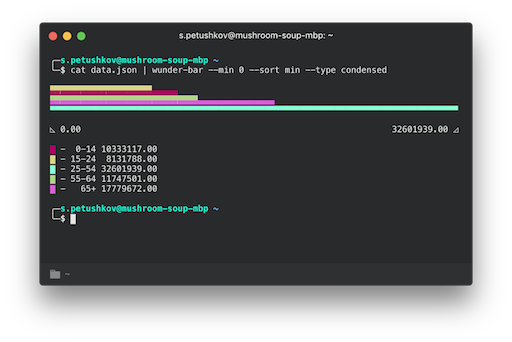
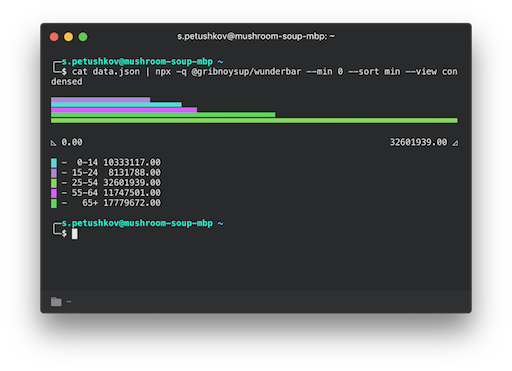
Update README to use npx instead of i -g; Update images

Changed region(s): [[0.0625, 0.0585, 0.9375, 0.848]]

diff --git a/README.md b/README.md
@@ -10,24 +10,19 @@ building blocks to print chart yourself.
 ## Use in terminal
 
 ```
-# Install it first
-npm i -g @gribnoysup/wunderbar
-```
-
-```
-echo "[1, 2, 3, 4, 5]" | @gribnoysup/wunderbar --min 0
+echo "[1, 2, 3, 4, 5]" | npx @gribnoysup/wunderbar --min 0
 ```
 
 ![wunder-bar-simple](./wunder-bar-simple.png)
 
 ```
-cat data.json | @gribnoysup/wunderbar --min 0
+cat data.json | npx @gribnoysup/wunderbar --min 0
 ```
 
 ![wunder-bar-cli](./wunder-bar-cli.png)
 
 ```
-cat data.json | @gribnoysup/wunderbar --min 0 --sort min --view condensed
+cat data.json | npx @gribnoysup/wunderbar --min 0 --sort min --view condensed
 ```
 
 ![wunder-bar-cli-condensed](./wunder-bar-cli-condensed.png)
@@ -90,7 +85,7 @@ All options are also supported in the cli version:
 
 ```
 echo "[10, 30, 50, 70, 90, 110]" | \
-  @gribnoysup/wunderbar --view normal --min 0 --max 100  --length 42 --sort min --randomColorOptions '{ "seed": "unicorn" }';
+  npx @gribnoysup/wunderbar --view normal --min 0 --max 100  --length 42 --sort min --randomColorOptions '{ "seed": "unicorn" }'
 ```
 
 ![wunder-bar-simple](./wunder-bar-cli-all.png)
